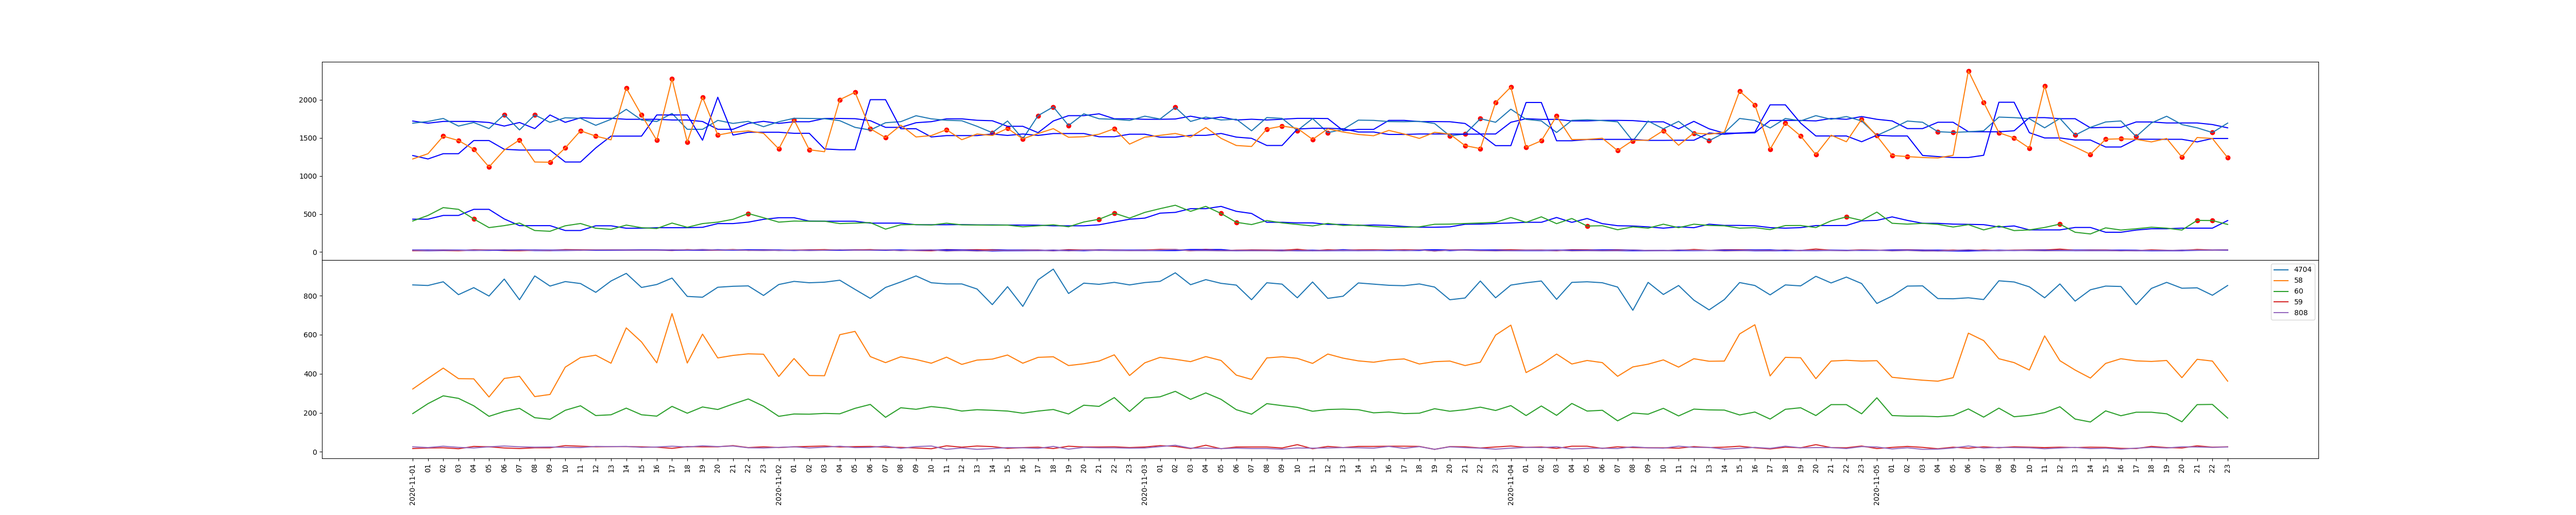
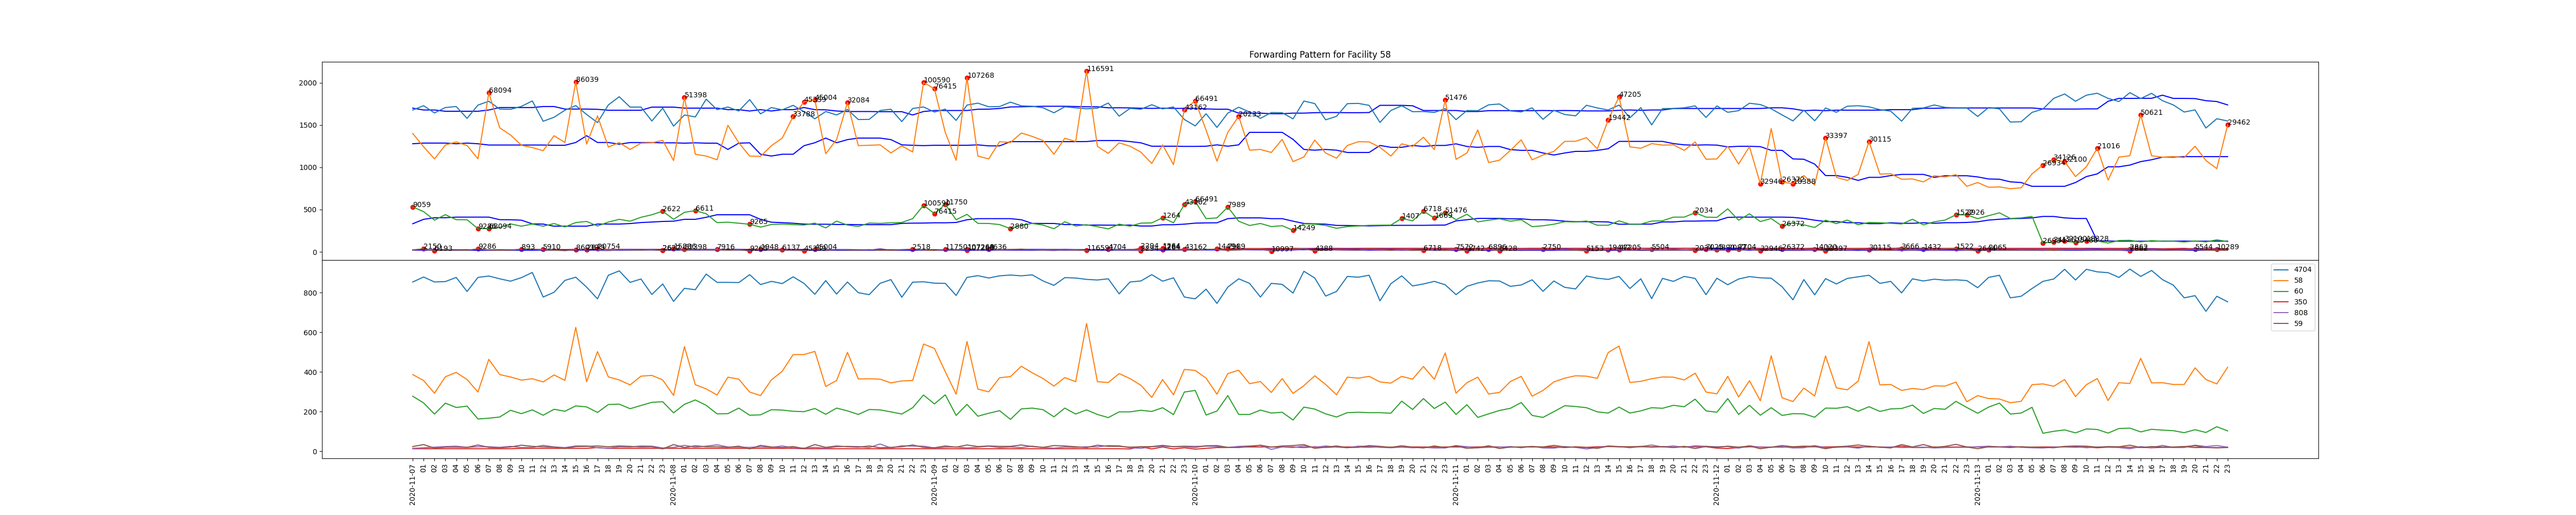
graph with mse labels

diff --git a/phase3_scripts/fw_model/fw_monitoring_graph.py b/phase3_scripts/fw_model/fw_monitoring_graph.py
@@ -99,7 +99,7 @@ for date in tqdm(range(delta.days + 1)):
                 if link1 in fw_comp_model[link0]:
                     if "alarms" in fw_comp_model[link0][link1]:
                         fw_comp_model[link0][link1]["alarms"].append(len(date_list)-1)
-                        fw_comp_model[link0][link1]["r_p_value"].append(key[3])
+                        fw_comp_model[link0][link1]["mse"].append(key[3])
 
                     else:
                         fw_comp_model[link0][link1]["alarms"] =  [len(date_list)-1]
